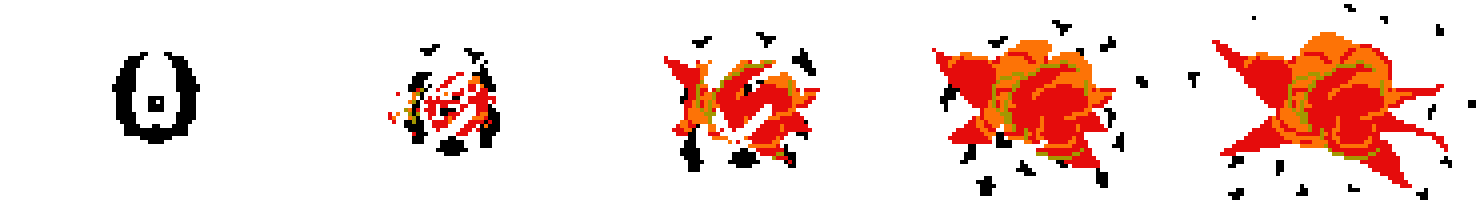
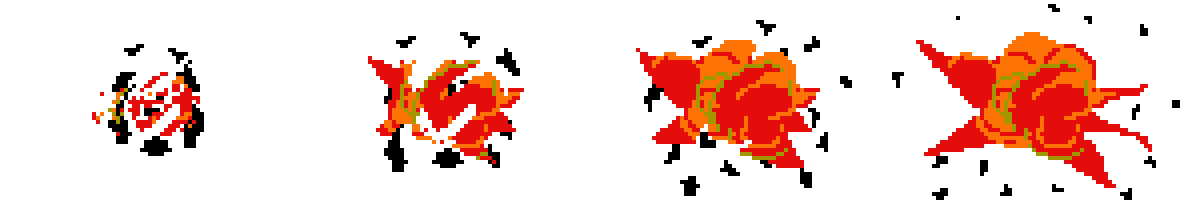
first pass of adding animations

diff --git a/AimToLearn/src/java/aimtolearn/sprites/AnimatedSprite.java b/AimToLearn/src/java/aimtolearn/sprites/AnimatedSprite.java
@@ -1,21 +1,105 @@
 package aimtolearn.sprites;
 
+import aimtolearn.Constants;
+
+import java.awt.Graphics;
 import java.awt.Image;
+import java.awt.Point;
 import java.awt.image.BufferedImage;
+import java.io.IOException;
+import java.net.URISyntaxException;
+import java.nio.file.Files;
+import java.nio.file.Paths;
+import java.util.HashMap;
+import java.util.List;
+import java.util.Map;
 
 public class AnimatedSprite {
 
-	private Image[] frames;
+	private static final Map<String, Point> OFFSETS = new HashMap<>();
 
-	public AnimatedSprite(BufferedImage spriteSheet, int frameCount) {
+	static {
+		try {
+			List<String> lines = Files.readAllLines(Paths.get(Constants.class.getResource("offsets.txt").toURI()));
+			for (String line : lines) {
+				String[] parts = line.split(" ");
+				String name = parts[0];
+				int x = Integer.parseInt(parts[1]);
+				int y = Integer.parseInt(parts[2]);
+				OFFSETS.put(name, new Point(x, y));
+			}
+		}
+		catch (IOException | URISyntaxException e) {
+			System.err.println("Failed to load animation offset file. Quitting game.");
+			System.exit(15);
+		}
+		catch (NumberFormatException e) {
+			System.err.println("Failed to parse animation offset file. Quitting Game.");
+			System.exit(15);
+		}
+	}
+
+	private Image[] frames;
+	private final Point offset;
+	private final boolean loop;
+	private final int frameCount, frameTime, totalDuration;
+
+	private boolean running;
+	private int currentFrame;
+	private long startTime, lastUpdateTime = 0;
+
+	// create a one-time animation
+	public AnimatedSprite(String imgName, int frameCount, int totalDuration) {
+		this(imgName, frameCount, totalDuration / frameCount, totalDuration, false);
+	}
+
+	// creates a looping animation
+	public AnimatedSprite(String imgName, int frameCount, int frameTime, int totalDuration) {
+		this(imgName, frameCount, frameTime, totalDuration, true);
+	}
+
+	private AnimatedSprite(String imgName, int frameCount, int frameTime, int totalDuration, boolean loop) {
+
+		BufferedImage spriteSheet = Constants.getImage(imgName + ".png");
 		int frameHeight = spriteSheet.getHeight(null);
 		int frameWidth = spriteSheet.getWidth(null) / frameCount;
-
 		this.frames = new Image[frameCount];
+		for (int i=0; i < frameCount; i++) this.frames[i] = spriteSheet.getSubimage(i * frameWidth, 0, frameWidth, frameHeight);
 
-		for (int i=0; i<frameCount; i++) {
-			this.frames[i] = spriteSheet.getSubimage(i * frameWidth, 0, frameWidth, frameHeight);
+		this.offset = OFFSETS.getOrDefault(imgName, new Point(0, 0));
+		this.frameCount = frameCount;
+		this.frameTime = frameTime;
+		this.totalDuration = totalDuration;
+		this.loop = loop;
+
+	}
+
+	public void start() {
+		this.startTime = System.currentTimeMillis();
+		this.currentFrame = 0;
+		this.running = true;
+	}
+
+	public boolean isRunning() {
+		return running;
+	}
+
+	public void tick() {
+
+		long t = System.currentTimeMillis();
+
+		if (loop && t - startTime >= totalDuration) { // we passed the total duration, so stop
+			this.running = false;
 		}
+
+		if (running && t - lastUpdateTime >= frameTime) { // each frame step
+			this.currentFrame = currentFrame >= frameCount-1 ? 0 : currentFrame + 1;
+			this.lastUpdateTime = t;
+		}
+	}
+
+	public void draw(Graphics g, int x, int y) {
+		g.drawImage(frames[currentFrame], x + offset.x, y + offset.y, null);
 	}
 
 }

diff --git a/AimToLearn/src/java/aimtolearn/sprites/Ship.java b/AimToLearn/src/java/aimtolearn/sprites/Ship.java
@@ -5,7 +5,6 @@ import aimtolearn.Constants;
 import java.awt.Graphics;
 import java.awt.Image;
 import java.awt.Rectangle;
-import java.awt.image.BufferedImage;
 import java.util.Arrays;
 import java.util.List;
 
@@ -18,24 +17,25 @@ public class Ship {
 
 	/** -1, 0, or 1 **/
 	private byte direction;
-
 	private long directionChangeStart, impactedStart;
-
 	private Image currentImage;
+	private boolean shotCharging;
 
-	private static final int INVULN_DURATION = 1000;
+	private static final int INVULN_DURATION = 2000;
+	public static final int SHOT_CHARGE_TIME = 500;
 
 	public static final byte DIR_RIGHT = 1, DIR_NONE = 0, DIR_LEFT = -1;
 	private static final List<Byte> DIRECTIONS = Arrays.asList(DIR_RIGHT, DIR_NONE, DIR_LEFT);
 
-	private static final BufferedImage MOVING_LEFT, MOVE_LEFT, MOVING_RIGHT, MOVE_RIGHT;
-
-	static {
-		MOVING_LEFT = Constants.getImage("ship_moving_left.png");
-		MOVE_LEFT = Constants.getImage("ship_left.png");
-		MOVING_RIGHT = Constants.getImage("ship_moving_right.png");
-		MOVE_RIGHT = Constants.getImage("ship_right.png");
-	}
+	private static final Image MOVING_LEFT = Constants.getImage("ship_moving_left.png");
+	private static final Image MOVE_LEFT = Constants.getImage("ship_left.png");
+	private static final Image MOVING_RIGHT = Constants.getImage("ship_moving_right.png");
+	private static final Image MOVE_RIGHT = Constants.getImage("ship_right.png");
+	private static final AnimatedSprite FIRING_ANIM = new AnimatedSprite("ship_fire", 9, SHOT_CHARGE_TIME);
+	private static final AnimatedSprite EXPLOSION_ANIM = new AnimatedSprite("ship_explosion", 3, 1);
+	private static final AnimatedSprite SHIELD_OVERLAY_ANIM = new AnimatedSprite("ship_shield", 4, 250, INVULN_DURATION);
+	private static final List<AnimatedSprite> ANIMATIONS =
+		Arrays.asList(FIRING_ANIM, EXPLOSION_ANIM, SHIELD_OVERLAY_ANIM);
 
 	public Ship(int startX) {
 		this.x = startX;
@@ -45,10 +45,22 @@ public class Ship {
 	}
 
 	public void draw(Graphics g) {
-		g.drawImage(currentImage, computeX(), y, null);
+
+		int x = computeX();
+		if (shotCharging) {
+			FIRING_ANIM.draw(g, x, y);
+		}
+		else {
+			g.drawImage(currentImage, x, y, null);
+		}
+
+		if (SHIELD_OVERLAY_ANIM.isRunning()) SHIELD_OVERLAY_ANIM.draw(g, x, y);
 	}
 
 	public void tick() {
+
+		for (AnimatedSprite anim : ANIMATIONS) anim.tick();
+
 		if (this.direction != 0) {
 			if (System.currentTimeMillis() - this.directionChangeStart < 100)
 				this.currentImage = this.direction == DIR_LEFT ? MOVING_LEFT : MOVING_RIGHT;
@@ -74,10 +86,20 @@ public class Ship {
 
 	public void impacted() {
 		this.impactedStart = System.currentTimeMillis();
+		SHIELD_OVERLAY_ANIM.start();
 	}
 
 	public boolean isInvincible() {
 		return System.currentTimeMillis() - impactedStart <= INVULN_DURATION;
+	}
+
+	public void setShotCharging(boolean charging) {
+		this.shotCharging = charging;
+		FIRING_ANIM.start();
+	}
+
+	public boolean isShotCharging() {
+		return shotCharging;
 	}
 
 	public void setDirection(byte direction) {

diff --git a/AimToLearn/src/java/aimtolearn/screens/MainScreen.java b/AimToLearn/src/java/aimtolearn/screens/MainScreen.java
@@ -21,7 +21,7 @@ public class MainScreen extends BaseScreen {
 	protected final Ship ship;
 	protected final List<Rectangle> shots = new CopyOnWriteArrayList<>();
 
-	private long lastShotTime = 0;
+	private long lastShotTime = 0, shotChargeStart = 0;
 
 	private Map<Integer, Boolean> activeKeys = new HashMap<>();
 
@@ -31,7 +31,7 @@ public class MainScreen extends BaseScreen {
 
 	private static final Dimension SHOT_SIZE = new Dimension(10, 40);
 
-	private static final int SHIP_SPEED = 5, SHOT_SPEED = 10, FIRE_DELAY = 500,
+	private static final int SHIP_SPEED = 5, SHOT_SPEED = 10, // FIRE_DELAY = 500, replaced with Ship.SHOT_CHARGE_TIME
 		LEFT_BOUND = SHIP_WIDTH / 2, RIGHT_BOUND = MAIN_WIDTH - LEFT_BOUND;
 
 	protected MainScreen(Game game) {
@@ -105,10 +105,16 @@ public class MainScreen extends BaseScreen {
 		}
 
 		if (isKeyDown(FIRE_KEYS)) {
-			if (System.currentTimeMillis() - lastShotTime >= FIRE_DELAY) {// auto-fire every [x]ms
-				fireShot();
-				this.lastShotTime = System.currentTimeMillis();
+			if (System.currentTimeMillis() - lastShotTime >= Ship.SHOT_CHARGE_TIME) { // auto-fire every [x]ms
+				this.shotChargeStart = System.currentTimeMillis();
+				ship.setShotCharging(true);
 			}
+		}
+
+		if (ship.isShotCharging() && System.currentTimeMillis() - shotChargeStart >= Ship.SHOT_CHARGE_TIME) {
+			fireShot();
+			ship.setShotCharging(false);
+			this.lastShotTime = System.currentTimeMillis();
 		}
 
 		for (Rectangle shotLoc : shots) {

diff --git a/AimToLearn/src/java/aimtolearn/Game.java b/AimToLearn/src/java/aimtolearn/Game.java
@@ -7,6 +7,7 @@ import javax.swing.JFrame;
 import javax.swing.JOptionPane;
 import javax.swing.WindowConstants;
 import java.awt.Point;
+import java.awt.event.KeyEvent;
 import java.awt.event.MouseAdapter;
 import java.awt.event.MouseEvent;
 
@@ -92,7 +93,6 @@ public class Game extends JFrame {
 	}
 
 	public void howToPlay(BaseScreen returnScreen) {
-	//	JOptionPane.showMessageDialog(this, "TODO: How to play screen");
 		setDisplayPanel(HOW_TO_SCREEN);
 		HOW_TO_SCREEN.setReturnScreen(returnScreen);
 	}
@@ -119,13 +119,17 @@ public class Game extends JFrame {
 		setDisplayPanel(CONFIRM_QUIT_SCREEN);
 	}
 
-	@Deprecated
+	public void onKeyDown(KeyEvent e) {
+		if (e.getKeyCode() == KeyEvent.VK_F10) System.exit(0);
+	}
+
+	/*
 	public void quitTemp() {
 		int confirm = JOptionPane.showConfirmDialog(this, "Are you sure you want to quit?", "Confirm Quit",
 			JOptionPane.YES_NO_OPTION, JOptionPane.QUESTION_MESSAGE);
 
 		if (confirm == 0) System.exit(0);
-	}
+	}*/
 
 	public int getDesiredHeight() {
 		return desiredHeight;

diff --git a/AimToLearn/src/java/aimtolearn/screens/GameplayScreen.java b/AimToLearn/src/java/aimtolearn/screens/GameplayScreen.java
@@ -160,6 +160,8 @@ public class GameplayScreen extends MainScreen {
 
 				boolean passed = score >= PASSING_SCORE;
 
+				// TODO this needs work
+
 				String msg = "You have scored %d out of %d possible questions. ";
 				if (passed)	msg += "You have passed this round.";
 				else msg += "You have failed this round and must try again for a score of " + PASSING_SCORE + ".";
@@ -191,7 +193,7 @@ public class GameplayScreen extends MainScreen {
 	}
 
 	private void decrementScore() {
-		if (score > 0) this.score--;
+		/*if (score > 0)*/ this.score--;
 	}
 
 	public Question getQuestion() {

diff --git a/AimToLearn/src/java/aimtolearn/screens/BaseMenu.java b/AimToLearn/src/java/aimtolearn/screens/BaseMenu.java
@@ -52,6 +52,11 @@ public abstract class BaseMenu extends BaseScreen {
 		setTopHeight(250);
 	}
 
+	public void reset() {
+		this.selectedIndex = 0;
+		repaint();
+	}
+
 	protected void setDisabledIndexes(Integer... disabled) {
 		this.disabledIndexes = Arrays.asList(disabled);
 	}
@@ -113,11 +118,6 @@ public abstract class BaseMenu extends BaseScreen {
 			}
 
 		}
-	}
-
-	public void reset() {
-		this.selectedIndex = 0;
-		repaint();
 	}
 
 	@Override

diff --git a/AimToLearn/src/java/aimtolearn/screens/BaseScreen.java b/AimToLearn/src/java/aimtolearn/screens/BaseScreen.java
@@ -31,6 +31,7 @@ public abstract class BaseScreen extends JPanel {
 
 		this.addKeyListener(new KeyAdapter() {
 			public void keyPressed(KeyEvent e) {
+				game.onKeyDown(e);
 				BaseScreen.this.onKeyDown(e);
 			}
 			public void keyReleased(KeyEvent e) {

diff --git a/AimToLearn/src/java/aimtolearn/Constants.java b/AimToLearn/src/java/aimtolearn/Constants.java
@@ -59,7 +59,7 @@ public class Constants {
 		} catch (IOException e) {
 			System.err.println("Failed to load image: \"" + fileName + "\". Quitting game.");
 			System.exit(14);
-			return null;
+			throw new RuntimeException(e);
 		}
 	}
 

diff --git a/AimToLearn/src/java/aimtolearn/screens/ConfirmReturnMenu.java b/AimToLearn/src/java/aimtolearn/screens/ConfirmReturnMenu.java
@@ -13,6 +13,7 @@ public class ConfirmReturnMenu extends BaseMenu {
 
 	public void setReturnScreen(BaseScreen returnScreen) {
 		this.returnScreen = returnScreen;
+		reset();
 	}
 
 	@Override

diff --git a/AimToLearn/src/java/aimtolearn/screens/ConfirmQuitMenu.java b/AimToLearn/src/java/aimtolearn/screens/ConfirmQuitMenu.java
@@ -13,6 +13,7 @@ public class ConfirmQuitMenu extends BaseMenu {
 
 	public void setReturnScreen(BaseScreen returnScreen) {
 		this.returnScreen = returnScreen;
+		reset();
 	}
 
 	@Override
